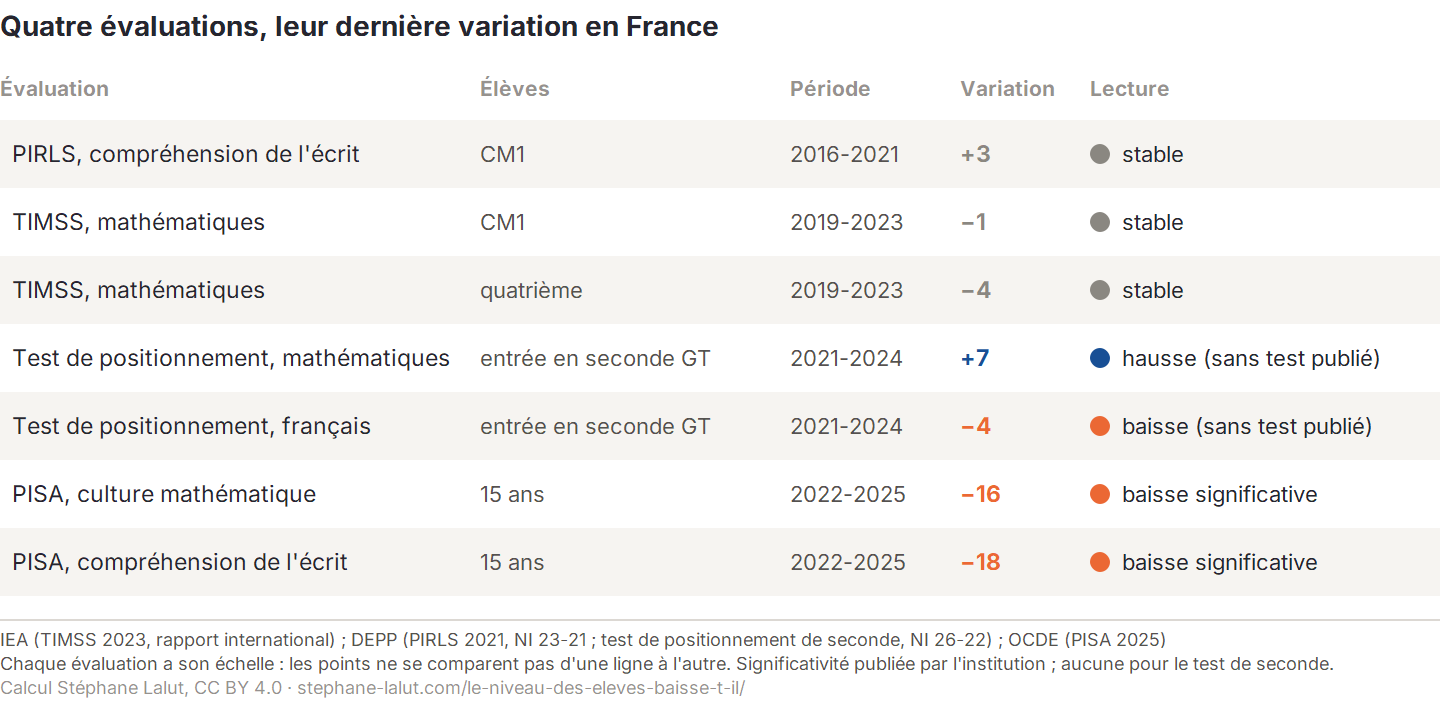
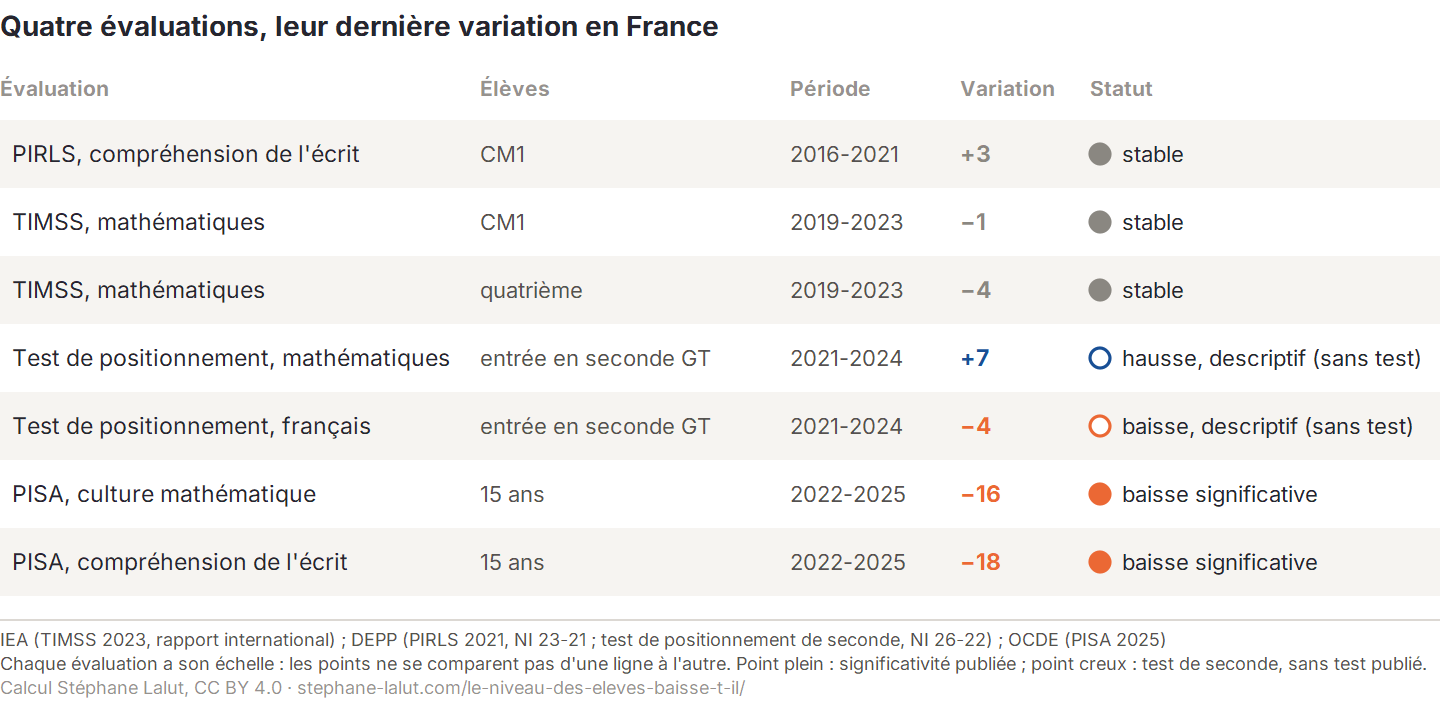
fix(ecole): page niveau apres contre-expertise de la version reecrite (PRO-20261008-023701) -- « repartition entre classes » au lieu de « composition » (point bloquant), precaution sur les changements a l'interieur des classes, figure de decomposition ; tete : declin long, divergence recente, period

diff --git a/scripts/update_niveau_eleves.py b/scripts/update_niveau_eleves.py
@@ -144,6 +144,9 @@ def mutation(c):
         c["ae"]["timss"]["TIMSS 4e maths"]["2019"]["sym"] = "p"
     elif m == "composition":  # la composition aurait contribué à la baisse au lieu de la masquer
         c["comp"] = dict(c["comp"], recompose_2025=c["comp"]["moyenne_2025"] + 5)
+    elif m == "amortisseur":  # en France, le haut reculerait moins que le bas en mathématiques
+        c["pct"] = json.loads(json.dumps(c["pct"]))
+        c["pct"]["mathematiques"]["France"][4] = c["pct"]["mathematiques"]["France"][0] / 2
     elif m == "effort":       # la France ne serait que troisième pour la baisse de l'effort déclaré
         c["eff"] = dict(c["eff"], rang=3)
     elif m is not None:
@@ -180,6 +183,7 @@ def gardes(c):
     g(20 <= cp["parts_2015"]["a_troisieme_et_moins"] < 25 and cp["parts_2025"]["a_troisieme_et_moins"] < 10,
       "composition : « de près d'un quart à moins d'un dixième »")
     g(1.7 <= cp["parts_2025"]["c_seconde_pro_cap"] / cp["parts_2015"]["c_seconde_pro_cap"] < 2.0, "composition : voie professionnelle « presque doublée »")
+    g(cp["moyenne_2025"] - cp["recompose_2025"] > 0, "composition : l'effet de répartition « relève » la moyenne")
     # protocole 2, N9 : dans l'OCDE, la baisse surtout en bas ; en France, tout le spectre (maths, sciences), le haut en lecture
     pct = c["pct"]
     for d in DOM:
@@ -188,6 +192,17 @@ def gardes(c):
         g(abs(pct[d]["France"][4] - pct[d]["France"][0]) <= 5, "%s : France « tout le spectre »" % d)
     g(pct["lecture"]["France"][4] - pct["lecture"]["France"][0] < -5, "lecture : France, « le haut davantage »")
     g(pct["mathematiques"]["France"][4] < 2 * pct["mathematiques"]["OCDE"][4], "maths : P90 France recule plus de deux fois plus que l'OCDE")
+    for d in DOM:   # « dans la moyenne de l'OCDE, la baisse s'atténue quand on remonte la distribution »
+        o_ = pct[d]["OCDE"]
+        g(o_[0] < o_[2] < o_[4], "%s : OCDE, recul P10 > P50 > P90" % d)
+    for d in ("lecture", "mathematiques"):   # « en France, le milieu et le haut reculent au moins autant que le bas »
+        f_ = pct[d]["France"]
+        g(f_[2] <= f_[0] and f_[4] <= f_[0], "%s : France, P50 et P90 reculent au moins autant que P10" % d)
+    f_ = pct["lecture"]["France"]
+    g(f_[2] <= 1.4 * f_[0] and f_[4] <= 1.4 * f_[0], "lecture : France, milieu et haut « bien davantage » que le bas")
+    g(all(v < cp["s"] for v in cp["sensibilites"].values()), "composition : variantes « même sens, effet un peu plus fort »")
+    f_ = pct["sciences"]["France"]
+    g(f_[2] <= 0.65 * f_[0] and f_[4] <= 0.65 * f_[0], "sciences : France, « presque autant »")
     # protocole 2, N10 (descriptif) : « la plus forte baisse de l'effort déclaré des pays de l'OCDE », « deux fois la moyenne »
     ef = c["eff"]
     g(ef["rang"] == 1 and ef["france_sig"], "effort : « la plus forte baisse », significative")
@@ -366,10 +381,12 @@ def affichage(c):
     A["comp_baisse_rec"] = nb(cp["moyenne_2015"] - cp["recompose_2025"], 0)
     dcl = [cp["scores_2015"][k] - cp["scores_2025"][k] for k in cp["scores_2015"]]
     A["comp_cl_min"], A["comp_cl_max"] = nb(min(dcl), 0), nb(max(dcl), 0)
+    A["comp_effet"] = nb(cp["moyenne_2025"] - cp["recompose_2025"], 0)
     A["comp_gt"] = nb(cp["scores_2015"]["b_seconde_gt"] - cp["scores_2025"]["b_seconde_gt"], 0)
     pct = c["pct"]
     for d in DOM:
         k = COURT[d]
+        A[k + "_p50"], A[k + "_op50"] = nb(-pct[d]["France"][2], 0), nb(-pct[d]["OCDE"][2], 0)
         A[k + "_p10"], A[k + "_p90"] = nb(-pct[d]["France"][0], 0), nb(-pct[d]["France"][4], 0)
         A[k + "_op10"], A[k + "_op90"] = nb(-pct[d]["OCDE"][0], 0), nb(-pct[d]["OCDE"][4], 0)
     ef = c["eff"]
@@ -406,10 +423,15 @@ FIG = {
         source="OCDE, PISA 2025, volume I, tableaux I.B1.2a.36 à 38 (variation du score moyen entre 2015 et 2025)",
         note="Chaque point est un pays membre de l'OCDE. Bande bleue : la moitié centrale des pays (du premier au troisième quartile).",
         montre="En lecture et en sciences, la baisse française est dans la moitié centrale des pays de l'OCDE, la lecture pratiquement à sa frontière ; en mathématiques, elle compte, sur les estimations ponctuelles, parmi le quart des plus fortes."),
+    "composition": dict(
+        titre="PISA, culture scientifique : la répartition entre classes masque une partie de la baisse",
+        source="DEPP, Notes d'Information 16-37 (PISA 2015, figure 3) et 26-39 (PISA 2025, figure 10 web) ; calcul de l'auteur",
+        note="Moyenne des classes pondérée par leur part. Ne neutralise pas les changements de population à l'intérieur de chaque classe.",
+        montre="Avec la répartition entre classes de 2015, le score de 2025 serait plus bas : la baisse serait près de deux fois plus forte, parce qu'à 15 ans moins d'élèves sont encore au collège."),
     "thermometres": dict(
         titre="Quatre évaluations, leur dernière variation en France",
         source="IEA (TIMSS 2023, rapport international) ; DEPP (PIRLS 2021, NI 23-21 ; test de positionnement de seconde, NI 26-22) ; OCDE (PISA 2025)",
-        note="Chaque évaluation a son échelle : les points ne se comparent pas d'une ligne à l'autre. Significativité publiée par l'institution ; aucune pour le test de seconde.",
+        note="Chaque évaluation a son échelle : les points ne se comparent pas d'une ligne à l'autre. Point plein : significativité publiée ; point creux : test de seconde, sans test publié.",
         montre="Sur leur dernière période, PIRLS en CM1 et TIMSS en CM1 et en quatrième sont stables ; le test d'entrée en seconde monte en mathématiques ; PISA, à 15 ans, baisse nettement."),
     "sommet": dict(
         titre="Les élèves en difficulté et les meilleurs élèves, 2015 et 2025",
@@ -441,9 +463,9 @@ def fig_thermometres(c, A):
             st = "baisse significative" if s_[a0]["sym"] == "p" else ("hausse significative" if s_[a0]["sym"] == "q" else "stable")
         lignes.append((lib, pop, "%s-%s" % (a0, a1), d, st))
     lignes.append(("Test de positionnement, mathématiques", "entrée en seconde GT", "2021-2024",
-                   sec["GT maths"]["2024"] - sec["GT maths"]["2021"], "hausse (sans test publié)"))
+                   sec["GT maths"]["2024"] - sec["GT maths"]["2021"], "hausse, descriptif (sans test)"))
     lignes.append(("Test de positionnement, français", "entrée en seconde GT", "2021-2024",
-                   sec["GT francais"]["2024"] - sec["GT francais"]["2021"], "baisse (sans test publié)"))
+                   sec["GT francais"]["2024"] - sec["GT francais"]["2021"], "baisse, descriptif (sans test)"))
     for d_, lib in (("mathematiques", "PISA, culture mathématique"), ("lecture", "PISA, compréhension de l'écrit")):
         x = P[d_]["dif"]["2022"]
         lignes.append((lib, "15 ans", "2022-2025", x["v"], "baisse significative" if x["sig"] and x["v"] < 0 else "stable"))
@@ -452,19 +474,45 @@ def fig_thermometres(c, A):
     h = 60 + 34 * len(lignes) + 10
     e = tete("niv-t", t["titre"], desc, h + 52)
     cols = (0, 240, 395, 480, 545)
-    for x, lib in zip(cols, ("Évaluation", "Élèves", "Période", "Variation", "Lecture")):
+    for x, lib in zip(cols, ("Évaluation", "Élèves", "Période", "Variation", "Statut")):
         e.append('<text x="%d" y="48" font-size="10.5" fill="%s" font-weight="600">%s</text>' % (x, MUTED, esc(lib)))
     for i, (lib, pop, per, v, st) in enumerate(lignes):
         y = 60 + 34 * i
         if i % 2 == 0:
             e.append('<rect x="0" y="%d" width="%d" height="34" fill="#f6f4f1"/>' % (y, W))
         col = ORANGE if st.startswith("baisse") else (BLEU if st.startswith("hausse") else GRIS)
+        creux = "descriptif" in st
         e.append('<text x="%d" y="%d" font-size="11.5" fill="%s">%s</text>' % (cols[0] + 6, y + 21, INK, esc(lib)))
         e.append('<text x="%d" y="%d" font-size="11" fill="%s">%s</text>' % (cols[1], y + 21, INK2, esc(pop)))
         e.append('<text x="%d" y="%d" font-size="11" fill="%s">%s</text>' % (cols[2], y + 21, INK2, per))
         e.append('<text x="%d" y="%d" font-size="11.5" fill="%s" font-weight="600">%s%s</text>' % (cols[3], y + 21, col, "+" if v > 0 else "", nb(v, 0)))
-        e.append('<rect x="%d" y="%d" width="10" height="10" rx="5" fill="%s"/>' % (cols[4], y + 12, col))
+        e.append('<rect x="%d" y="%d" width="10" height="10" rx="5" fill="%s" stroke="%s" stroke-width="1.6"/>'
+                 % (cols[4], y + 12, "#ffffff" if creux else col, col))
         e.append('<text x="%d" y="%d" font-size="11" fill="%s">%s</text>' % (cols[4] + 16, y + 21, INK, esc(st)))
+    return pied(e, h + 2, t["source"], t["note"])
+
+
+def fig_composition(c, A):
+    t = FIG["composition"]
+    cp = c["comp"]
+    pts_ = [("2015, observé", cp["moyenne_2015"], GRIS), ("2025, à la répartition entre classes de 2015", cp["recompose_2025"], ORANGE),
+            ("2025, observé", cp["moyenne_2025"], BLEU)]
+    desc = ("Score moyen PISA en culture scientifique, moyenne des classes : 2015 observé %s ; 2025 recalculé avec la répartition "
+            "entre classes de 2015 %s ; 2025 observé %s. Baisse observée %s points ; à répartition de 2015, %s ; effet de la "
+            "répartition entre classes +%s." % (nb(cp["moyenne_2015"], 0), nb(cp["recompose_2025"], 0), nb(cp["moyenne_2025"], 0),
+                                              A["comp_baisse_obs"], A["comp_baisse_rec"], A["comp_effet"]))
+    h = 230
+    e = tete("niv-c", t["titre"], desc, h + 52)
+    X0, X1, vmin, vmax = 300, 690, 465, 500
+    sx = lambda v: X0 + (X1 - X0) * (v - vmin) / (vmax - vmin)
+    for gv in range(vmin, vmax + 1, 5):
+        e.append('<line x1="%.1f" y1="44" x2="%.1f" y2="%d" stroke="%s" stroke-width="0.6"/>' % (sx(gv), sx(gv), 44 + 150, GRID))
+        e.append('<text x="%.1f" y="%d" font-size="10" fill="%s" text-anchor="middle">%d</text>' % (sx(gv), 44 + 164, MUTED, gv))
+    for i, (lib, v, col) in enumerate(pts_):
+        y = 70 + i * 50
+        e.append('<text x="0" y="%d" font-size="11.5" fill="%s">%s</text>' % (y + 4, INK, esc(lib)))
+        e.append('<circle cx="%.1f" cy="%d" r="7" fill="%s"/>' % (sx(v), y, col))
+        e.append('<text x="%.1f" y="%d" font-size="11" fill="%s" text-anchor="middle" font-weight="600">%s</text>' % (sx(v), y - 12, col, nb(v, 0)))
     return pied(e, h + 2, t["source"], t["note"])
 
 
@@ -579,7 +627,7 @@ def fig_seconde(c, A):
 
 def fiches(figs):
     out = []
-    for fid in ("thermometres", "baisse", "sommet", "seconde"):
+    for fid in ("thermometres", "baisse", "composition", "seconde", "sommet"):
         svg = figs["niveau-%s.svg" % fid]
         titre = html.unescape(re.search(r"<title[^>]*>(.*?)</title>", svg).group(1))
         cart = [html.unescape(t) for t in re.findall(r'<text x="0" y="[0-9.]+" font-size="9" fill="[^"]+">(.*?)</text>', svg)]
@@ -663,7 +711,7 @@ def main() -> int:
         log("--check : %d gardes passees (%d cles d'affichage), rien ecrit." % (n, len(A)))
         return 0
     import cairosvg
-    figs = {"niveau-thermometres.svg": fig_thermometres(c, A), "niveau-baisse.svg": fig_baisse(c, A), "niveau-sommet.svg": fig_sommet(c, A), "niveau-seconde.svg": fig_seconde(c, A)}
+    figs = {"niveau-thermometres.svg": fig_thermometres(c, A), "niveau-baisse.svg": fig_baisse(c, A), "niveau-composition.svg": fig_composition(c, A), "niveau-sommet.svg": fig_sommet(c, A), "niveau-seconde.svg": fig_seconde(c, A)}
     P = c["P"]
     payload = {"meta": {"page": "https://" + PAGE_URL, "licence": "CC BY 4.0",
                         "champ": "France ; jeunes de 15 ans (PISA), élèves entrant en seconde (DEPP), terminale S (TIMSS Advanced), concours externes du second degré public",

diff --git a/content/le-niveau-des-eleves-baisse-t-il/_index.md b/content/le-niveau-des-eleves-baisse-t-il/_index.md
@@ -1,7 +1,7 @@
 ---
 title: "Le niveau des élèves baisse-t-il ?"
 description: "PISA 2025, TIMSS, PIRLS, tests d'entrée en seconde : ce que les évaluations disent du niveau des élèves en France. PISA, à 15 ans, perd {niv.lect_v15} points en lecture et {niv.math_v15} en mathématiques de 2015 à 2025 ; en CM1 et en quatrième, les derniers résultats de TIMSS et PIRLS sont stables. Données OCDE, IEA et DEPP, recalculées."
-chapo: "Selon PISA, oui, nettement ; selon les autres évaluations, pas toujours. De 2015 à 2025, les jeunes Français de 15 ans ont perdu {niv.lect_v15} points en compréhension de l'écrit et {niv.math_v15} en mathématiques à l'enquête PISA, l'une des plus fortes baisses de l'OCDE en mathématiques. Mais sur leur dernière période, PIRLS et TIMSS en CM1 et TIMSS en quatrième ne trouvent pas de baisse significative, et le test d'entrée en seconde progresse en mathématiques. En sciences, seul domaine où on peut le mesurer, le recul de PISA n'est pas un effet de composition : à classes égales, il serait près de deux fois plus fort. Et il touche aussi les meilleurs élèves, quand dans l'OCDE la baisse se concentre en bas."
+chapo: "Selon PISA, oui, nettement. De 2015 à 2025, les jeunes Français de 15 ans ont perdu {niv.lect_v15} points en compréhension de l'écrit et {niv.math_v15} en mathématiques, l'une des plus fortes baisses de l'OCDE en mathématiques. Sur la longue période, les évaluations passées par classe montrent elles aussi un recul ; mais sur leurs dernières périodes disponibles, PIRLS et TIMSS en CM1 et TIMSS en quatrième sont stables, et le test d'entrée en seconde progresse en mathématiques. En sciences, seul domaine où on peut le mesurer, le changement de répartition entre classes masque une partie du recul : avec la répartition de 2015, la baisse serait près de deux fois plus forte. Et en France, le milieu et le haut de la distribution reculent presque autant que le bas, ou davantage, quand dans la moyenne de l'OCDE la baisse s'atténue vers le haut."
 date: 2026-10-08T00:00:00+02:00
 lastmod: 2026-10-08
 og_title: "Le niveau des élèves baisse-t-il ? PISA 2025, TIMSS, PIRLS, seconde — S. Lalut"
@@ -39,13 +39,13 @@ dataset:  # JSON-LD Dataset (partials/schema-dataset-page.html) ; jetons résolu
   apropos: "niveau scolaire des élèves en France"
 faq:
   - question: "Le niveau des élèves baisse-t-il en France ?"
-    answer: "Selon PISA, oui : de 2015 à 2025, le score moyen des jeunes de 15 ans a baissé de {niv.lect_v15} points en compréhension de l'écrit, de {niv.math_v15} en culture mathématique et de {niv.sci_v15} en culture scientifique, trois baisses statistiquement significatives selon l'OCDE. Les évaluations passées par classe ne voient pas toutes cette baisse récente : PIRLS en CM1 (2016-2021), TIMSS en CM1 et en quatrième (2019-2023) sont stables. Sur trente ans, elles baissent elles aussi."
+    answer: "Selon PISA, oui : de 2015 à 2025, le score moyen des jeunes de 15 ans a baissé de {niv.lect_v15} points en compréhension de l'écrit, de {niv.math_v15} en culture mathématique et de {niv.sci_v15} en culture scientifique, trois baisses statistiquement significatives selon l'OCDE. Les évaluations passées par classe ne voient pas toutes cette baisse récente : PIRLS en CM1 (2016-2021), TIMSS en CM1 et en quatrième (2019-2023) sont stables. Sur la longue période, elles baissent elles aussi."
   - question: "Les autres évaluations confirment-elles PISA ?"
     answer: "Pas sur la période récente. PIRLS en CM1 passe de {niv.pirls_16} à {niv.pirls_21} points entre 2016 et 2021, TIMSS en CM1 de {niv.tcm1_19} à {niv.tcm1_23} et TIMSS en quatrième de {niv.t4e_19} à {niv.t4e_23} en mathématiques entre 2019 et 2023 : aucune variation n'est significative. Le test d'entrée en seconde progresse en mathématiques. Ces évaluations portent sur d'autres élèves et d'autres années que PISA : elles ne le réfutent pas, mais elles interdisent de dire que toutes les mesures montrent la même chute."
   - question: "La France baisse-t-elle plus que les autres pays ?"
     answer: "En lecture et en sciences, non : sa baisse depuis 2015 se situe dans la moitié centrale des 38 pays de l'OCDE, en lecture pratiquement à sa frontière. En mathématiques, oui : avec {niv.math_v15} points, sa baisse dépasse, sur les estimations ponctuelles, celle de {niv.math_mieux} des {niv.n_autres} autres pays membres, quand la moitié des pays perdent moins de {niv.math_med} points ; l'OCDE ne publie pas de test de cet écart."
-  - question: "La baisse vient-elle de la moindre proportion d'élèves en retard ?"
-    answer: "Non, c'est l'inverse. Entre 2015 et 2025, la part des jeunes de 15 ans encore en troisième ou avant est passée de {niv.comp_retard15} % à {niv.comp_retard25} % de l'échantillon PISA. Ces élèves ont des scores plus bas : leur recul relève la moyenne. En sciences, à la composition de 2015, la baisse serait de {niv.comp_baisse_rec} points au lieu de {niv.comp_baisse_obs}."
+  - question: "La baisse vient-elle du changement de répartition des élèves entre classes ?"
+    answer: "Non, c'est plutôt l'inverse. Entre 2015 et 2025, la part des jeunes de 15 ans encore en troisième ou avant est passée de {niv.comp_retard15} % à {niv.comp_retard25} % de l'échantillon PISA. Ces élèves ont des scores plus bas : leur recul relève la moyenne. En sciences, avec la répartition entre classes de 2015, la baisse serait de {niv.comp_baisse_rec} points au lieu de {niv.comp_baisse_obs}. Ce calcul ne neutralise pas les changements de population à l'intérieur de chaque classe."
   - question: "Les meilleurs élèves baissent-ils aussi ?"
     answer: "Oui, et plus qu'ailleurs. La part des élèves de 15 ans aux deux niveaux les plus élevés de PISA est passée de {niv.lect_haut15} % à {niv.lect_haut25} % en compréhension de l'écrit entre 2015 et 2025, et de {niv.math_haut15} % à {niv.math_haut25} % en mathématiques ; dans la moyenne de l'OCDE, de {niv.lect_ohaut15} % à {niv.lect_ohaut25} % et de {niv.math_ohaut15} % à {niv.math_ohaut25} %."
   - question: "La baisse vient-elle du recrutement des professeurs ?"
@@ -67,19 +67,19 @@ onglet:  # barre du dossier de son bloc (partials/barre-bloc.html, posée par le
 ## Toutes les évaluations montrent-elles la même baisse&nbsp;? {#evaluations}
 
 <figure class="figure-ciseau">
-  <img src="/img/niveau-thermometres.svg" alt="Tableau de la dernière variation de chaque évaluation en France, dans sa propre échelle : PIRLS CM1, compréhension de l'écrit, 2016-2021, de {{< niv-val "pirls_16" >}} à {{< niv-val "pirls_21" >}}, stable ; TIMSS CM1, mathématiques, 2019-2023, de {{< niv-val "tcm1_19" >}} à {{< niv-val "tcm1_23" >}}, stable ; TIMSS quatrième, mathématiques, 2019-2023, de {{< niv-val "t4e_19" >}} à {{< niv-val "t4e_23" >}}, stable ; test de positionnement de seconde GT, mathématiques, 2021-2024, de {{< niv-val "sm_21" >}} à {{< niv-val "sm_24" >}}, hausse sans test publié ; français, de {{< niv-val "sf_21" >}} à {{< niv-val "sf_24" >}}, baisse sans test publié ; PISA, 15 ans, 2022-2025, mathématiques −{{< niv-val "math_v22" >}} et compréhension de l'écrit −{{< niv-val "lect_v22" >}}, baisses significatives." width="720" height="360" loading="lazy">
+  <img src="/img/niveau-thermometres.svg" alt="Tableau de la dernière variation de chaque évaluation en France, dans sa propre échelle : PIRLS CM1, compréhension de l'écrit, 2016-2021, de {{< niv-val "pirls_16" >}} à {{< niv-val "pirls_21" >}}, stable ; TIMSS CM1, mathématiques, 2019-2023, de {{< niv-val "tcm1_19" >}} à {{< niv-val "tcm1_23" >}}, stable ; TIMSS quatrième, mathématiques, 2019-2023, de {{< niv-val "t4e_19" >}} à {{< niv-val "t4e_23" >}}, stable ; test de positionnement de seconde GT, mathématiques, 2021-2024, de {{< niv-val "sm_21" >}} à {{< niv-val "sm_24" >}}, hausse descriptive, sans test publié ; français, de {{< niv-val "sf_21" >}} à {{< niv-val "sf_24" >}}, baisse descriptive, sans test publié ; PISA, 15 ans, 2022-2025, mathématiques −{{< niv-val "math_v22" >}} et compréhension de l'écrit −{{< niv-val "lect_v22" >}}, baisses significatives." width="720" height="360" loading="lazy">
   <figcaption>Dernière variation publiée de chaque évaluation en France, chacune dans sa propre échelle (IEA, DEPP, OCDE).</figcaption>
 </figure>
 
 <div class="resultat-phrase">
 
-**Le résultat en une phrase.** Sur leur dernière période, PIRLS en CM1 et TIMSS en CM1 et en quatrième ne trouvent pas de baisse significative en France, et le test d'entrée en seconde progresse en mathématiques&nbsp;; en mathématiques, seul PISA, à 15 ans, recule nettement.
+**Le résultat en une phrase.** Sur leurs dernières périodes disponibles, PIRLS en CM1 et TIMSS en CM1 et en quatrième ne trouvent pas de baisse significative en France, et le test d'entrée en seconde progresse en mathématiques&nbsp;; en mathématiques, seul PISA, à 15 ans, recule nettement.
 
 </div>
 
-Non, pas sur la période récente. Trois évaluations internationales passées par classe ne trouvent pas de baisse significative en France sur leur dernier intervalle&nbsp;: PIRLS en CM1, en lecture ({{< niv-val "pirls_16" >}} points en 2016, {{< niv-val "pirls_21" >}} en 2021), TIMSS en CM1 en mathématiques ({{< niv-val "tcm1_19" >}} en 2019, {{< niv-val "tcm1_23" >}} en 2023) et TIMSS en quatrième ({{< niv-val "t4e_19" >}} puis {{< niv-val "t4e_23" >}}). Les sciences de TIMSS sont stables elles aussi. À l'entrée du lycée, le test national de seconde progresse en mathématiques. PISA, lui, perd {{< niv-val "math_v22" >}}&nbsp;points en mathématiques et {{< niv-val "lect_v22" >}} en lecture entre 2022 et 2025, deux baisses significatives.
+Sur la longue période, oui&nbsp;; sur la période récente, non. Trois évaluations internationales passées par classe ne trouvent pas de baisse significative en France sur leur dernier intervalle&nbsp;: PIRLS en CM1, en lecture ({{< niv-val "pirls_16" >}} points en 2016, {{< niv-val "pirls_21" >}} en 2021), TIMSS en CM1 en mathématiques ({{< niv-val "tcm1_19" >}} en 2019, {{< niv-val "tcm1_23" >}} en 2023) et TIMSS en quatrième ({{< niv-val "t4e_19" >}} puis {{< niv-val "t4e_23" >}}). Les sciences de TIMSS sont stables elles aussi. À l'entrée du lycée, le test national de seconde progresse en mathématiques. PISA, lui, perd {{< niv-val "math_v22" >}}&nbsp;points en mathématiques et {{< niv-val "lect_v22" >}} en lecture entre 2022 et 2025, deux baisses significatives.
 
-Ces évaluations ne portent ni sur les mêmes élèves ni sur les mêmes années, et chacune a son échelle&nbsp;: elles se comparent par le sens de leur tendance, jamais par leurs points. Elles ne réfutent donc pas PISA. Elles interdisent de dire que toutes les mesures montrent la même chute récente. Sur trente ans, en revanche, les évaluations par classe baissent elles aussi&nbsp;: en mathématiques, TIMSS en quatrième était à {{< niv-val "t4e_95" >}} points en 1995, et PIRLS à {{< niv-val "pirls_01" >}} en 2001, deux niveaux significativement au-dessus des derniers résultats.
+Les périodes ne sont pas les mêmes (PIRLS s'arrête en 2021, TIMSS en 2023, PISA en 2025), ni les élèves, et chaque évaluation a son échelle&nbsp;: elles se comparent par le sens de leur tendance, jamais par leurs points. Elles ne réfutent donc pas PISA. Elles interdisent de dire que toutes les mesures montrent la même chute récente. Le contraste est donc autant dans le temps qu'entre instruments&nbsp;: sur la longue période, les évaluations par classe baissent elles aussi&nbsp;: en mathématiques, TIMSS en quatrième était à {{< niv-val "t4e_95" >}} points en 1995, et PIRLS à {{< niv-val "pirls_01" >}} en 2001, deux niveaux significativement au-dessus des derniers résultats. Ce qui distingue PISA, c'est le recul récent, que les évaluations par classe ne retrouvent pas.
 
 ## Que mesure PISA, et combien baisse-t-il&nbsp;? {#baisse}
 
@@ -92,6 +92,8 @@ PISA évalue des jeunes de 15 ans, quelle que soit leur classe, sur des compéte
 
 Ses trois baisses entre 2015 et 2025 sont statistiquement significatives selon l'OCDE&nbsp;: le score moyen de la France passe de {{< niv-val "lect_15" >}} à {{< niv-val "lect_25" >}} en compréhension de l'écrit, de {{< niv-val "math_15" >}} à {{< niv-val "math_25" >}} en culture mathématique, de {{< niv-val "sci_15" >}} à {{< niv-val "sci_25" >}} en culture scientifique. L'essentiel s'est produit depuis 2018&nbsp;: entre 2022 et 2025 encore, la lecture a perdu {{< niv-val "lect_v22" >}}&nbsp;points et les mathématiques {{< niv-val "math_v22" >}}, quand les sciences sont restées stables. Sur une période plus longue, la lecture a perdu {{< niv-val "lect_vlong" >}}&nbsp;points depuis {{< niv-val "lect_an0" >}} et les mathématiques {{< niv-val "math_vlong" >}} depuis {{< niv-val "math_an0" >}}, deux baisses significatives&nbsp;; en sciences, l'écart depuis {{< niv-val "sci_an0" >}} ({{< niv-val "sci_vlong" >}}&nbsp;points) ne l'est pas. L'OCDE ne signale pas l'échantillon français de 2025 comme hors normes.
 
+Une condition de la mesure a aussi changé. À la fin de l'épreuve, les élèves notent de 1 à 10 l'effort qu'ils y ont mis&nbsp;: en France, l'indice est passé de {{< niv-val "eff_22" >}} à {{< niv-val "eff_25" >}} entre 2022 et 2025, la plus forte baisse des {{< niv-val "eff_n" >}} pays de l'OCDE, deux fois celle de la moyenne ({{< niv-val "eff_od" >}}). Les données exploitées ici ne permettent pas de dire quelle part de la baisse des scores, éventuellement, lui est associée.
+
 ## La France baisse-t-elle plus que les autres&nbsp;? {#comparaison}
 
 Le récit courant, «&nbsp;tout le monde baisse&nbsp;», est juste en moyenne&nbsp;: la moyenne de l'OCDE perd {{< niv-val "lect_ocde_v15" >}}&nbsp;points en lecture et {{< niv-val "math_ocde_v15" >}} en mathématiques de 2015 à 2025. Il ne suffit pas pour la France.
@@ -100,11 +102,18 @@ Pour le vérifier, on peut placer la baisse française parmi celles des {{< niv-
 
 L'OCDE ne publie pas de test de l'écart entre la baisse française et celle des autres pays&nbsp;: le classement des baisses est un calcul de l'auteur sur ses tableaux.
 
-## La baisse vient-elle d'un changement des élèves évalués&nbsp;? {#composition}
+## Le changement de répartition entre classes explique-t-il la baisse&nbsp;? {#composition}
 
-Non&nbsp;: la composition des élèves de 15 ans masque une partie de la baisse au lieu de la produire. PISA retient un âge, non une classe. Entre 2015 et 2025, avec le recul du redoublement, la part des jeunes de 15 ans encore en troisième ou avant est passée de près d'un quart à moins d'un dixième de l'échantillon français ({{< niv-val "comp_retard15" >}}&nbsp;% puis {{< niv-val "comp_retard25" >}}&nbsp;%), et celle de la seconde professionnelle et du CAP a presque doublé ({{< niv-val "comp_pro15" >}}&nbsp;% puis {{< niv-val "comp_pro25" >}}&nbsp;%). Les élèves en retard ont des scores bien plus bas&nbsp;: leur recul relève mécaniquement la moyenne.
+<figure class="figure-ciseau">
+  <img src="/img/niveau-composition.svg" alt="Score moyen PISA en culture scientifique, moyenne des classes : 2015 observé, 2025 recalculé avec la répartition entre classes de 2015, 2025 observé ; baisse observée {{< niv-val "comp_baisse_obs" >}} points, {{< niv-val "comp_baisse_rec" >}} à la répartition de 2015 ; effet de la répartition entre classes +{{< niv-val "comp_effet" >}}." width="720" height="282" loading="lazy">
+  <figcaption>Culture scientifique, moyenne des classes pondérée par leur part, 2015 et 2025 (DEPP, Notes d'Information 16-37 et 26-39&nbsp;; calcul de l'auteur).</figcaption>
+</figure>
 
-La DEPP publie, en culture scientifique, la répartition de l'échantillon par classe et le score de chaque classe, en 2015 comme en 2025. Avec la répartition de 2015, le score de 2025 aurait été plus bas, et la baisse aurait été de {{< niv-val "comp_baisse_rec" >}}&nbsp;points au lieu des {{< niv-val "comp_baisse_obs" >}} observés, près de deux fois plus forte. Chaque classe recule davantage que la moyenne, de {{< niv-val "comp_cl_min" >}} à {{< niv-val "comp_cl_max" >}}&nbsp;points selon la classe ({{< niv-val "comp_gt" >}} en seconde générale et technologique). La DEPP avait relevé le même effet de structure entre 2006 et 2015. Ce calcul n'est possible qu'en sciences&nbsp;: pour la lecture et les mathématiques de 2015, la répartition par classe n'est pas publiée avec les scores.
+En sciences, non&nbsp;: il en masque une partie. PISA retient un âge, non une classe. Entre 2015 et 2025, avec le recul du redoublement, la part des jeunes de 15 ans encore en troisième ou avant est passée de près d'un quart à moins d'un dixième de l'échantillon français ({{< niv-val "comp_retard15" >}}&nbsp;% puis {{< niv-val "comp_retard25" >}}&nbsp;%), et celle de la seconde professionnelle et du CAP a presque doublé ({{< niv-val "comp_pro15" >}}&nbsp;% puis {{< niv-val "comp_pro25" >}}&nbsp;%). Les élèves en retard ont des scores bien plus bas&nbsp;: leur recul relève mécaniquement la moyenne.
+
+La DEPP publie, en culture scientifique, la répartition de l'échantillon par classe et le score de chaque classe, en 2015 comme en 2025. Avec la répartition entre classes de 2015, le score de 2025 aurait été plus bas, et la baisse aurait été de {{< niv-val "comp_baisse_rec" >}}&nbsp;points au lieu des {{< niv-val "comp_baisse_obs" >}} observés, près de deux fois plus forte. Deux mouvements se compensent donc en partie&nbsp;: à 15 ans, les élèves sont plus avancés dans leur scolarité, et à classe donnée, leurs scores sont plus bas, de {{< niv-val "comp_cl_min" >}} à {{< niv-val "comp_cl_max" >}}&nbsp;points selon la classe ({{< niv-val "comp_gt" >}} en seconde générale et technologique). La DEPP avait relevé le même effet de structure entre 2006 et 2015.
+
+Ce calcul neutralise la répartition entre classes, pas les autres changements de population&nbsp;: milieu social, sexe, origine, et surtout qui se trouve dans chaque classe. Quand le redoublement recule, des élèves qui auraient redoublé sont désormais en seconde&nbsp;; une partie du recul «&nbsp;à classe donnée&nbsp;» peut venir de là. Il n'est possible qu'en sciences&nbsp;: pour la lecture et les mathématiques de 2015, la répartition par classe n'est pas publiée avec les scores.
 
 ## Que disent les tests d'entrée en seconde&nbsp;? {#seconde}
 
@@ -124,11 +133,11 @@ Ce désaccord ne signifie pas qu'une évaluation se trompe. Les deux épreuves n
   <figcaption>Part des élèves de 15 ans sous le niveau 2 et aux niveaux 5 et 6, France et moyenne de l'OCDE, 2015 et 2025 (OCDE, PISA 2025).</figcaption>
 </figure>
 
-Les deux, et c'est ce qui distingue la France. Dans la moyenne de l'OCDE, la baisse de 2015 à 2025 se concentre en bas de la distribution&nbsp;: en mathématiques, le score sous lequel se trouvent les 10&nbsp;% d'élèves les plus faibles recule de {{< niv-val "math_op10" >}}&nbsp;points, celui au-dessus duquel se trouvent les 10&nbsp;% les plus forts de {{< niv-val "math_op90" >}}. En France, le recul est à peu près le même sur toute la distribution&nbsp;: {{< niv-val "math_p10" >}} et {{< niv-val "math_p90" >}}&nbsp;points. En lecture, le haut recule même davantage que le bas ({{< niv-val "lect_p90" >}} contre {{< niv-val "lect_p10" >}}). Ailleurs, le sommet résiste mieux&nbsp;; en France, il recule avec le reste.
+Les deux, et c'est ce qui distingue la France. Dans la moyenne de l'OCDE, la baisse de 2015 à 2025 s'atténue quand on remonte la distribution&nbsp;: en mathématiques, le score sous lequel se trouvent les 10&nbsp;% d'élèves les plus faibles recule de {{< niv-val "math_op10" >}}&nbsp;points, le score médian de {{< niv-val "math_op50" >}}, celui au-dessus duquel se trouvent les 10&nbsp;% les plus forts de {{< niv-val "math_op90" >}}. En France, cet amortissement disparaît&nbsp;: {{< niv-val "math_p10" >}}, {{< niv-val "math_p50" >}} et {{< niv-val "math_p90" >}}&nbsp;points. En lecture, le milieu et le haut reculent même bien davantage que le bas ({{< niv-val "lect_p50" >}} et {{< niv-val "lect_p90" >}}, contre {{< niv-val "lect_p10" >}}). Dans la moyenne de l'OCDE, le haut de la distribution résiste nettement mieux&nbsp;; en France, cette protection du haut disparaît.
 
 Les seuils de PISA le disent aussi. La part des élèves sous le niveau&nbsp;2, celui où l'OCDE situe la maîtrise de base, passe de {{< niv-val "lect_bas15" >}}&nbsp;% à {{< niv-val "lect_bas25" >}}&nbsp;% en lecture et de {{< niv-val "math_bas15" >}}&nbsp;% à {{< niv-val "math_bas25" >}}&nbsp;% en mathématiques, à peu près comme dans l'OCDE. La part des meilleurs élèves, aux niveaux 5 et 6, a été presque divisée par trois en lecture, de {{< niv-val "lect_haut15" >}}&nbsp;% à {{< niv-val "lect_haut25" >}}&nbsp;%, et plus que divisée par deux en mathématiques, de {{< niv-val "math_haut15" >}}&nbsp;% à {{< niv-val "math_haut25" >}}&nbsp;%&nbsp;; dans la moyenne de l'OCDE, la perte au sommet est bien plus faible (de {{< niv-val "lect_ohaut15" >}}&nbsp;% à {{< niv-val "lect_ohaut25" >}}&nbsp;% en lecture, de {{< niv-val "math_ohaut15" >}}&nbsp;% à {{< niv-val "math_ohaut25" >}}&nbsp;% en mathématiques).
 
-**L'écart lié au milieu social s'est réduit, mais pas parce que le bas remonte.** En lecture, l'écart de score entre le quart des élèves les plus favorisés et le quart le moins favorisé est passé de {{< niv-val "lect_ec15" >}} à {{< niv-val "lect_ec25" >}}&nbsp;points entre 2015 et 2025 (il est de {{< niv-val "lect_oec25" >}}&nbsp;points dans la moyenne de l'OCDE en 2025). La réduction est significative dans les trois domaines, et elle correspond à une baisse beaucoup plus forte des élèves favorisés&nbsp;: en lecture, le quart le plus favorisé a perdu {{< niv-val "lect_qh" >}}&nbsp;points, le quart le moins favorisé {{< niv-val "lect_qb" >}}&nbsp;; en mathématiques, {{< niv-val "math_qh" >}} et {{< niv-val "math_qb" >}}. En lecture, le même resserrement par le haut existe dans la moyenne de l'OCDE, moins marqué&nbsp;; en mathématiques, les deux quarts de l'OCDE reculent autant. La France s'en distingue par l'ampleur&nbsp;: son quart favorisé recule presque deux fois plus que celui de l'OCDE ({{< niv-val "lect_qh" >}} contre {{< niv-val "lect_oqh" >}}&nbsp;points en lecture, {{< niv-val "math_qh" >}} contre {{< niv-val "math_oqh" >}} en mathématiques), quand son quart défavorisé recule comme lui ({{< niv-val "lect_qb" >}} contre {{< niv-val "lect_oqb" >}}, {{< niv-val "math_qb" >}} contre {{< niv-val "math_oqb" >}}). Une inégalité qui se réduit parce que tous reculent, les plus favorisés davantage, n'est pas un progrès pour les moins favorisés.
+Un second résultat, distinct du premier, va dans le même sens&nbsp;: les meilleurs scores ne sont pas la même chose que les élèves les plus favorisés, et les deux reculent. **L'écart lié au milieu social s'est réduit, mais pas parce que le bas remonte.** En lecture, l'écart de score entre le quart des élèves les plus favorisés et le quart le moins favorisé est passé de {{< niv-val "lect_ec15" >}} à {{< niv-val "lect_ec25" >}}&nbsp;points entre 2015 et 2025 (il est de {{< niv-val "lect_oec25" >}}&nbsp;points dans la moyenne de l'OCDE en 2025). La réduction est significative dans les trois domaines, et elle correspond à une baisse beaucoup plus forte des élèves favorisés&nbsp;: en lecture, le quart le plus favorisé a perdu {{< niv-val "lect_qh" >}}&nbsp;points, le quart le moins favorisé {{< niv-val "lect_qb" >}}&nbsp;; en mathématiques, {{< niv-val "math_qh" >}} et {{< niv-val "math_qb" >}}. En lecture, le même resserrement par le haut existe dans la moyenne de l'OCDE, moins marqué&nbsp;; en mathématiques, les deux quarts de l'OCDE reculent autant. La France s'en distingue par l'ampleur&nbsp;: son quart favorisé recule presque deux fois plus que celui de l'OCDE ({{< niv-val "lect_qh" >}} contre {{< niv-val "lect_oqh" >}}&nbsp;points en lecture, {{< niv-val "math_qh" >}} contre {{< niv-val "math_oqh" >}} en mathématiques), quand son quart défavorisé recule comme lui ({{< niv-val "lect_qb" >}} contre {{< niv-val "lect_oqb" >}}, {{< niv-val "math_qb" >}} contre {{< niv-val "math_oqb" >}}). Une inégalité qui se réduit parce que tous reculent, les plus favorisés davantage, n'est pas un progrès pour les moins favorisés.
 
 ## Et à la fin du lycée&nbsp;? {#fin-du-lycee}
 
@@ -142,17 +151,16 @@ Les données publiques ne permettent ni de relier le recrutement des professeurs
 
 ## Ce que ces données ne disent pas {#limites}
 
-- **Pourquoi PISA baisse**&nbsp;: ni les moyens, ni les professeurs, ni les écrans, ni la pandémie ne peuvent être départagés avec ces séries. Elles mesurent un recul, pas sa cause.
+- **Pourquoi PISA baisse**&nbsp;: ni les moyens, ni les professeurs, ni les écrans, ni la pandémie, ni l'effort mis dans l'épreuve ne peuvent être départagés avec ces séries. Elles mesurent un recul, pas sa cause.
 - **Pourquoi les évaluations divergent**&nbsp;: âge contre classe, compétences appliquées contre programme, enjeu ou non pour l'élève, années différentes&nbsp;; aucune de ces explications n'est testée ici.
-- **L'effort fourni à l'épreuve**&nbsp;: l'indice d'effort déclaré par les élèves français à la fin de PISA est passé de {{< niv-val "eff_22" >}} à {{< niv-val "eff_25" >}} entre 2022 et 2025, la plus forte baisse des {{< niv-val "eff_n" >}} pays de l'OCDE, deux fois celle de la moyenne ({{< niv-val "eff_od" >}}). Ce que cette baisse change aux scores n'a pas pu être mesuré&nbsp;: le calcul prévu n'a pas passé son contrôle.
-- **La composition, hors sciences**&nbsp;: l'effet de la classe fréquentée n'est mesurable qu'en sciences&nbsp;; l'origine migratoire n'a pas été examinée.
+- **La composition au-delà de la classe**&nbsp;: la répartition entre classes n'est mesurable qu'en sciences&nbsp;; le milieu social, le sexe, l'origine migratoire et la population de chaque classe ne sont pas neutralisés.
 - **Le lien entre recrutement et niveau**&nbsp;: aucune donnée publique ne rapproche un enseignant des résultats de ses élèves.
 - **Le niveau à la sortie du lycée aujourd'hui**&nbsp;: la dernière mesure internationale date de 2015, et la journée défense et citoyenneté ne se compare pas dans le temps.
 - **Le baccalauréat**&nbsp;: un taux de réussite à un examen dont les règles changent ne mesure pas un niveau.
 
 ## Ce qu'il faut retenir {#retenir}
 
-PISA, à 15 ans, baisse nettement en France depuis 2015, et en mathématiques plus que dans la plupart des pays de l'OCDE. En sciences, seul domaine où on peut le mesurer, ce recul n'est pas un effet de composition&nbsp;: à classes égales, il serait près de deux fois plus fort. Il touche toute la distribution, les meilleurs élèves compris, quand dans la moyenne de l'OCDE la baisse se concentre en bas. Mais toutes les évaluations ne racontent pas la même histoire&nbsp;: en CM1 et en quatrième, TIMSS et PIRLS sont stables sur leur dernière période, et le test d'entrée en seconde progresse en mathématiques. Le «&nbsp;niveau&nbsp;» dépend de ce qu'on mesure, sur qui, et quand&nbsp;; une seule évaluation ne suffit pas à le dire.
+Les évaluations françaises racontent trois histoires à la fois. Une dégradation ancienne, que TIMSS, PIRLS et PISA montrent sur la longue période. Une divergence récente&nbsp;: PISA, à 15 ans, recule nettement depuis 2018, quand les évaluations passées par classe sont stables sur leurs dernières périodes et que le test d'entrée en seconde progresse en mathématiques. Et une scolarité plus fluide qui masque une partie du recul&nbsp;: en sciences, moins d'élèves sont en retard à 15 ans, mais à classe donnée les scores sont plus bas. Ce qui distingue la France de la moyenne de l'OCDE est au milieu et au sommet de la distribution, qui reculent presque autant que le bas, ou davantage. Le «&nbsp;niveau&nbsp;» dépend de ce qu'on mesure, sur qui, et quand&nbsp;; une seule évaluation ne suffit pas à le dire.
 
 ## Questions fréquentes {#questions}
 
@@ -166,7 +174,7 @@ Cette page mesure ce que savent les élèves à un moment donné. La question qu
 
 **PISA.** OCDE, *PISA 2025 Results*, volume&nbsp;I (8&nbsp;septembre 2026), tableaux de l'annexe&nbsp;B1&nbsp;: scores moyens et variations (I.B1.2a.36 à 38), niveaux de compétence (I.B1.2a.33 à 35), percentiles (I.B1.2a.39 à 41), statut économique, social et culturel (I.B1.2b.22 à 24). Une variation est dite significative quand elle dépasse 1,96 fois son erreur type, règle de l'OCDE. La moyenne de l'OCDE est celle des 35 pays comparables sur toute la période. Témoin&nbsp;: les séries de la France publiées par la DEPP (Notes d'Information 26-39 et 26-40), identiques à 0,04&nbsp;point près. Classes des élèves de l'échantillon&nbsp;: Note 26-40, figure&nbsp;1. Effort déclaré&nbsp;: Note 26-40, figures 31 à 34 web.
 
-**Composition par classe.** DEPP, Note d'Information 16-37 (PISA 2015, culture scientifique, figure&nbsp;3) et Note 26-39 (PISA 2025, figure 10 web)&nbsp;: part de l'échantillon et score par classe. Classes regroupées en quatre catégories (troisième et avant, seconde générale et technologique, seconde professionnelle et CAP, première)&nbsp;; la figure de 2015 n'a pas de ligne CAP. Score de 2025 recalculé avec les parts de 2015&nbsp;; contrôle&nbsp;: les catégories doivent redonner le score moyen publié à moins de 3&nbsp;points près, seuil fixé avant le calcul, ce qu'elles font les deux années.
+**Composition par classe.** DEPP, Note d'Information 16-37 (PISA 2015, culture scientifique, figure&nbsp;3) et Note 26-39 (PISA 2025, figure 10 web)&nbsp;: part de l'échantillon et score par classe. Classes regroupées en quatre catégories (troisième et avant, seconde générale et technologique, seconde professionnelle et CAP, première)&nbsp;; la figure de 2015 n'a pas de ligne CAP&nbsp;; champs un peu différents (2015 sans La Réunion, 2025 sans Mayotte). Deux variantes de regroupement (sans la première&nbsp;; «&nbsp;autres&nbsp;» comptés avec la troisième) donnent le même sens et un effet un peu plus fort. Score de 2025 recalculé avec les parts de 2015&nbsp;; contrôle&nbsp;: les catégories doivent redonner le score moyen publié à moins de 3&nbsp;points près, seuil fixé avant le calcul, ce qu'elles font les deux années.
 
 **Autres évaluations.** IEA, *TIMSS 2023 International Results* (tableaux de tendance, CM1 et quatrième, mathématiques et sciences, avec la significativité de chaque écart)&nbsp;; DEPP, Notes d'Information 24-47, 24-48 et 24-49 (TIMSS 2023), 23-21 (PIRLS 2021) et 17-24 (PIRLS 2016).
 
@@ -179,5 +187,5 @@ Cette page mesure ce que savent les élèves à un moment donné. La question qu
 Aucun chiffre de cette page n'est saisi à la main&nbsp;: tous viennent d'un calcul de l'auteur, dont l'extrait est archivé avec ses empreintes&nbsp;; le script qui écrit la page vérifie chaque affirmation chiffrée et s'arrête si elle n'est plus vraie. Deux protocoles ont été écrits avant tout calcul, avec leurs seuils&nbsp;; le second, qui a fait entrer TIMSS, PIRLS et la composition par classe, répondait à une contre-expertise externe de la première version. Les scores PISA de la France, les résultats des tests de seconde, des concours, de PIRLS et la composition par classe de 2015 ont été lus deux fois, par deux extracteurs indépendants, et les séries de la France ont été comparées entre l'OCDE et la DEPP&nbsp;; chacun de ces contrôles a détecté les erreurs qu'on y avait introduites volontairement.
 
 {{< reutiliser figures="figures_niveau" jeu="niveau_eleves" sources="OCDE (PISA, Regards sur l'éducation), IEA (TIMSS, PIRLS), DEPP" donnees="Scores PISA de la France et de l'OCDE, variation 2015-2025 des 38 pays de l'OCDE, percentiles, élèves en difficulté et meilleurs élèves, écart social, composition par classe en sciences, effort déclaré, TIMSS CM1 et quatrième, PIRLS CM1, test de positionnement de seconde 2019-2025, écarts entre générations de la DEPP, TIMSS Advanced, candidats et admis au CAPES externe, contractuels, enseignants non pleinement qualifiés ; le même contenu existe en CSV, au format long." >}}
-PISA, à 15 ans, baisse nettement en France de 2015 à 2025 ({{< niv-val "lect_v15" >}}&nbsp;points en compréhension de l'écrit, {{< niv-val "math_v15" >}} en mathématiques), mais sur leur dernière période, PIRLS et TIMSS en CM1 et TIMSS en quatrième sont stables, et le test d'entrée en seconde progresse en mathématiques. En sciences, seul domaine où on peut le mesurer, la baisse de PISA serait près de deux fois plus forte à classes égales&nbsp;: la composition la masque. Elle touche toute la distribution, quand dans l'OCDE elle se concentre en bas.
+PISA, à 15 ans, baisse nettement en France de 2015 à 2025 ({{< niv-val "lect_v15" >}}&nbsp;points en compréhension de l'écrit, {{< niv-val "math_v15" >}} en mathématiques), mais sur leur dernière période, PIRLS et TIMSS en CM1 et TIMSS en quatrième sont stables, et le test d'entrée en seconde progresse en mathématiques. En sciences, seul domaine où on peut le mesurer, la baisse de PISA serait près de deux fois plus forte avec la répartition entre classes de 2015&nbsp;: le recul du redoublement en masque une partie. En France, le milieu et le haut de la distribution reculent presque autant que le bas, ou davantage, quand dans la moyenne de l'OCDE la baisse s'atténue vers le haut.
 {{< /reutiliser >}}
